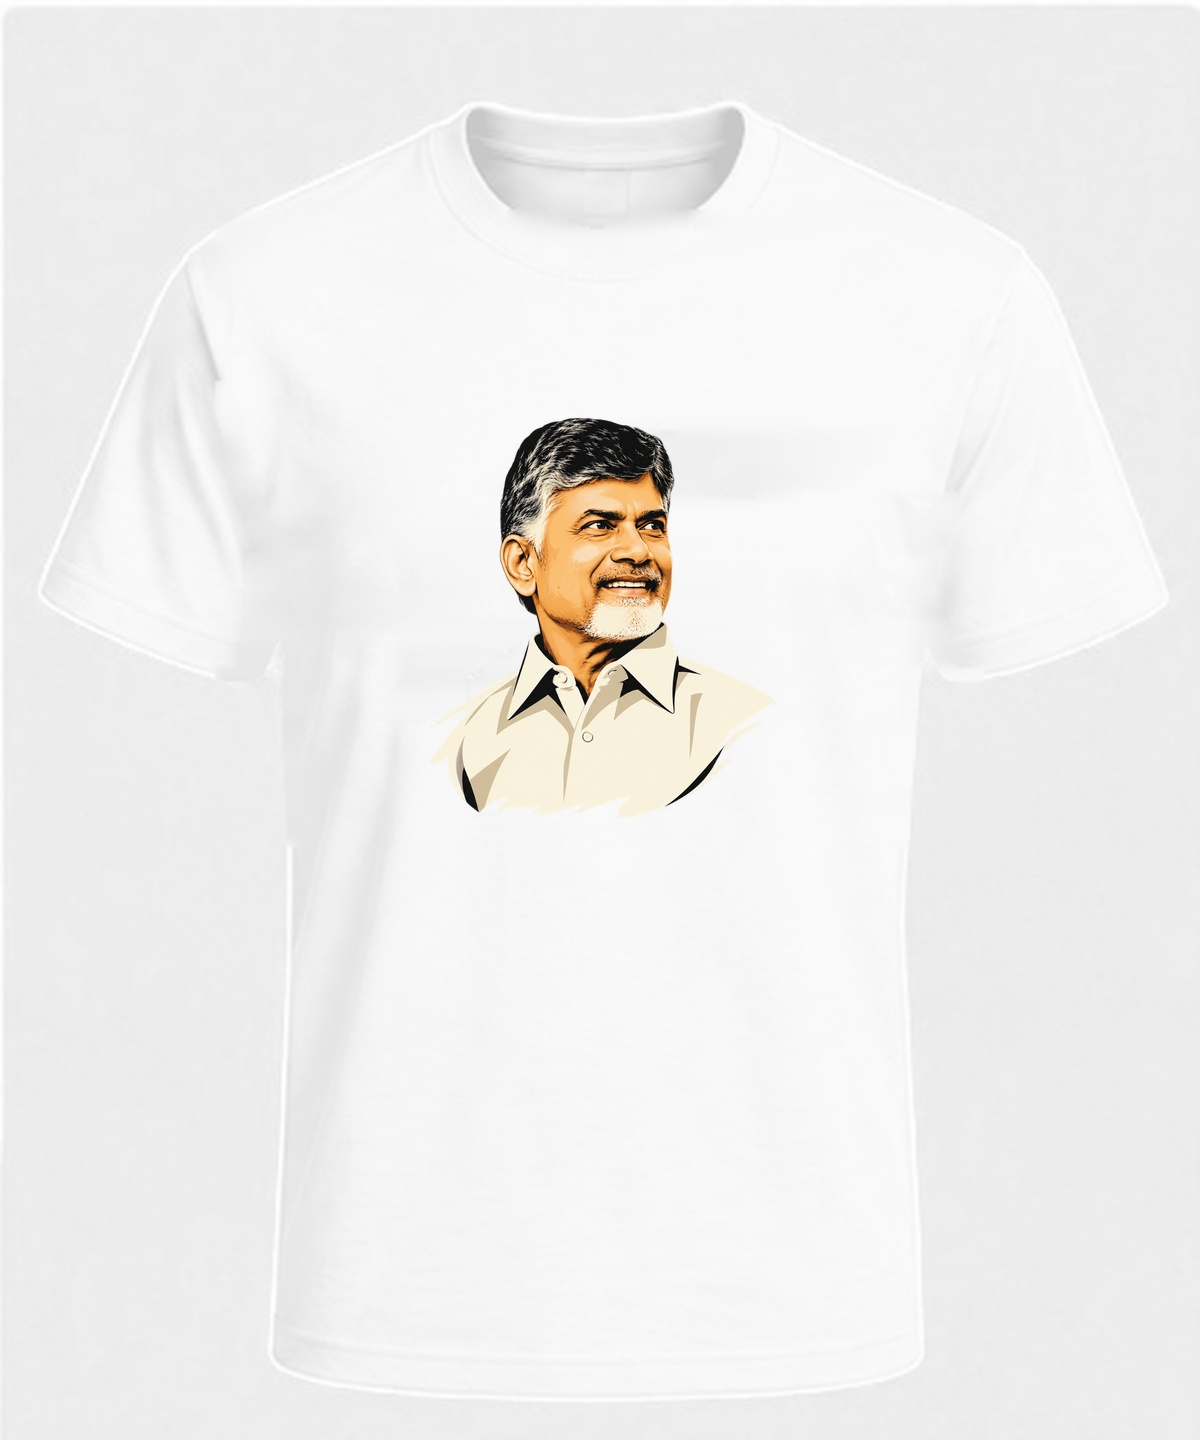
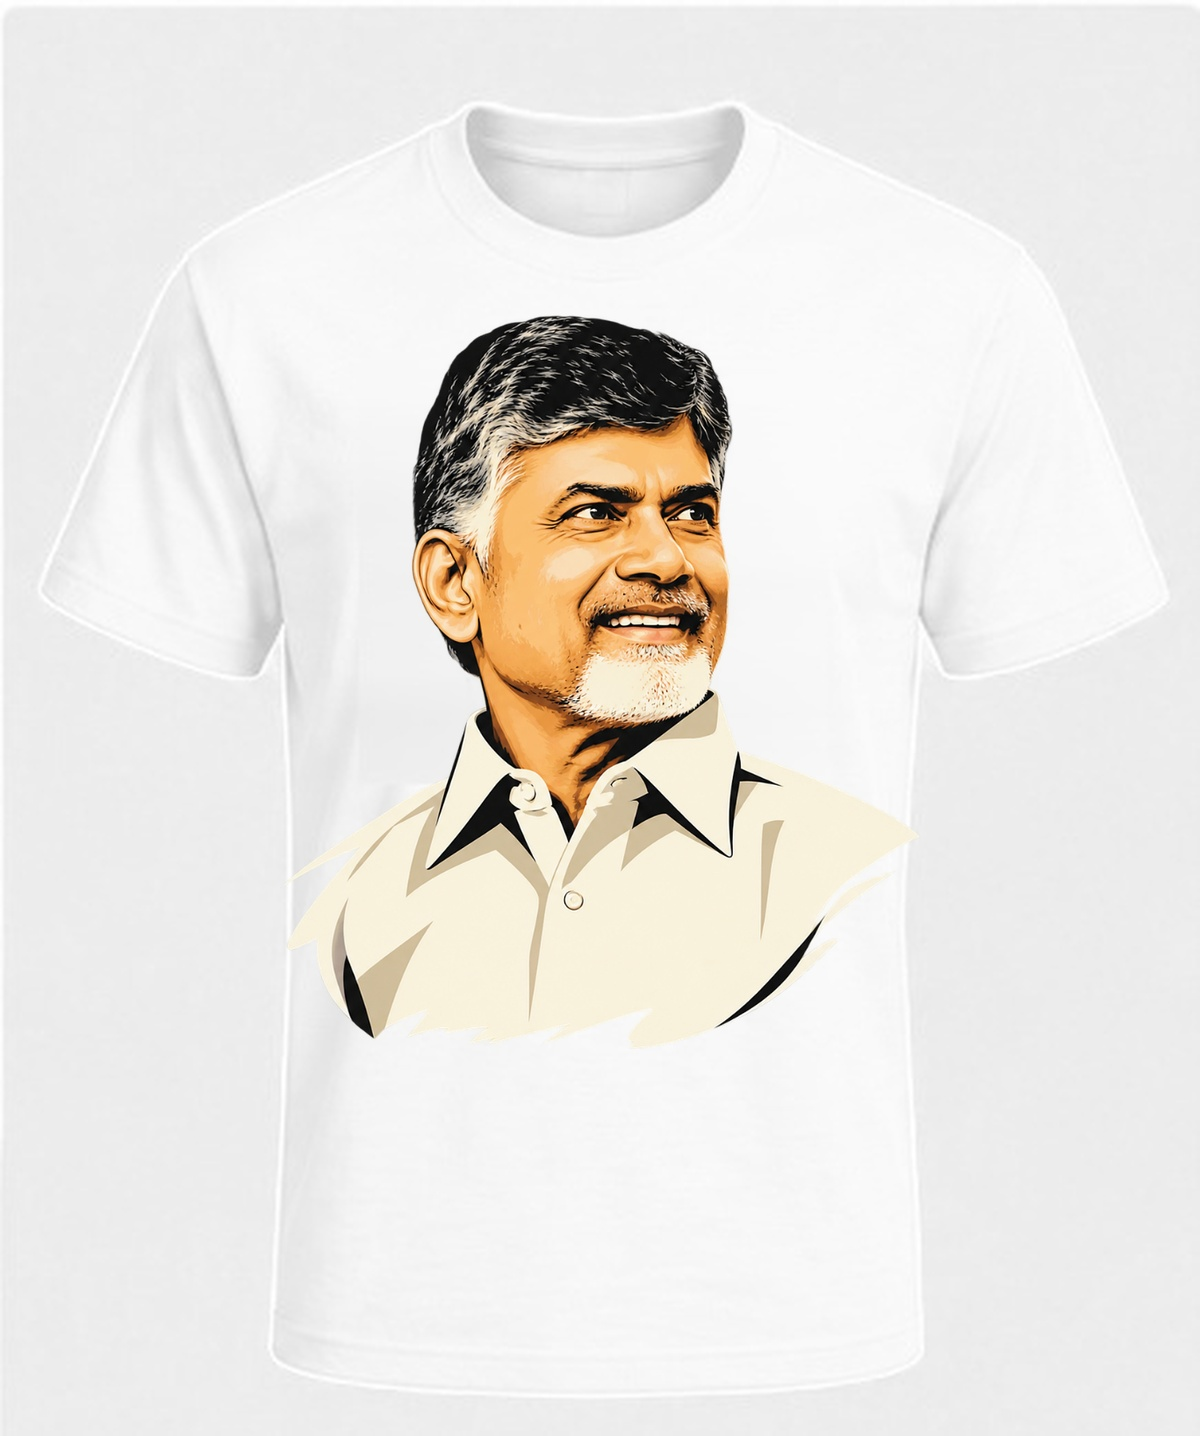
feat: add Chandra Babu Printed White T-Shirt to product catalog with full-chest HD graphic print and rich gallery

diff --git a/frontend/src/pages/ProductDetails.tsx b/frontend/src/pages/ProductDetails.tsx
@@ -35,6 +35,29 @@ const TDP_COLOR_IMAGES: Record<string, string> = {
   Black: "/images/tdp_black_hd.jpg",
 }
 
+const CBN_GALLERY = [
+  {
+    full: "/images/cbn_front_hd.jpg",
+    thumb: "/images/cbn_thumb_front.jpg",
+    label: "Front View",
+  },
+  {
+    full: "/images/cbn_back_hd.jpg",
+    thumb: "/images/cbn_thumb_back.jpg",
+    label: "Back View",
+  },
+  {
+    full: "/images/cbn_print_hd.jpg",
+    thumb: "/images/cbn_thumb_print.jpg",
+    label: "Print Detail",
+  },
+  {
+    full: "/images/cbn_fabric_hd.jpg",
+    thumb: "/images/cbn_thumb_fabric.jpg",
+    label: "Fabric Texture",
+  },
+]
+
 const COLORS = [
   { name: "Yellow", hex: "#f59e0b" },
   { name: "White", hex: "#ffffff" },
@@ -72,6 +95,9 @@ export default function ProductDetails() {
 
   const product = productQuery.data
   const isTdp = product.name.toLowerCase().includes("tdp")
+  const isCbn =
+    product.name.toLowerCase().includes("chandra babu") ||
+    product.name.toLowerCase().includes("cbn")
   const isDevara = product.name.toLowerCase().includes("devara")
   const isApparel =
     product.category.toLowerCase().includes("fashion") ||
@@ -79,18 +105,28 @@ export default function ProductDetails() {
     product.name.toLowerCase().includes("dress") ||
     product.name.toLowerCase().includes("t-shirt")
 
+  const availableColors = isCbn || isDevara
+    ? [{ name: "White", hex: "#ffffff" }]
+    : COLORS
+
+  const currentColor = isCbn || isDevara ? "White" : selectedColor
+
   const galleryViews = isTdp
     ? TDP_GALLERY
+    : isCbn
+    ? CBN_GALLERY
     : [{ full: product.image, thumb: product.image, label: product.name }]
 
   const mainImageSrc = isTdp
-    ? selectedColor !== "Yellow"
-      ? TDP_COLOR_IMAGES[selectedColor] || TDP_GALLERY[activeImageIndex]?.full || product.image
+    ? currentColor !== "Yellow"
+      ? TDP_COLOR_IMAGES[currentColor] || TDP_GALLERY[activeImageIndex]?.full || product.image
       : TDP_GALLERY[activeImageIndex]?.full || product.image
+    : isCbn
+    ? CBN_GALLERY[activeImageIndex]?.full || product.image
     : product.image
 
-  const originalPrice = isDevara ? 999 : null
-  const discountLabel = isDevara ? "40% off" : null
+  const originalPrice = isDevara || isCbn ? 999 : null
+  const discountLabel = isDevara || isCbn ? "40% off" : null
   const stockCount = typeof product.stock === "number" ? product.stock : 50
   const isOutOfStock = stockCount <= 0
 
@@ -220,13 +256,13 @@ export default function ProductDetails() {
             <div className="product-swatches-section">
               <span className="section-label">Color</span>
               <div className="color-swatches-row" role="radiogroup" aria-label="Select Color">
-                {COLORS.map((col) => (
+                {availableColors.map((col) => (
                   <button
                     key={col.name}
                     type="button"
                     role="radio"
-                    aria-checked={selectedColor === col.name}
-                    className={`color-swatch-btn ${selectedColor === col.name ? "active" : ""}`}
+                    aria-checked={currentColor === col.name}
+                    className={`color-swatch-btn ${currentColor === col.name ? "active" : ""}`}
                     onClick={() => {
                       setSelectedColor(col.name)
                       setActiveImageIndex(0)

diff --git a/backend/scripts/add_cbn_white_tshirt.py b/backend/scripts/add_cbn_white_tshirt.py
@@ -1,0 +1,36 @@
+import os
+import sys
+
+# Ensure backend is on sys.path
+sys.path.insert(0, os.path.abspath("backend"))
+
+from app.schemas.schemas import ProductData
+from app.services.product_service import create_product
+from app.db.session import SessionLocal
+from app.models.models import Product
+
+def add_cbn_product():
+    db = SessionLocal()
+    existing = db.query(Product).filter(
+        (Product.name == "Chandra Babu Printed White T-Shirt") |
+        (Product.name == "Chandra Babu Naidu Printed White T-Shirt")
+    ).first()
+    if existing:
+        print(f"Product already exists with ID: {existing.id} ({existing.name})")
+        return existing.to_dict()
+
+    new_prod_data = ProductData(
+        name="Chandra Babu Printed White T-Shirt",
+        price=599.0,
+        category="Fashion",
+        image="/images/cbn_front_hd.jpg",
+        description="Premium white graphic T-shirt featuring a high-definition bold full-chest front print of visionary leader N. Chandrababu Naidu. Crafted from 100% bio-wash combed cotton for ultimate comfort and durability. Regular fit, fade-resistant digital screen print. Original Price: ₹999 (40% off). Colors: White. Sizes: S, M, L, XL, XXL.",
+        stock=50
+    )
+    
+    created = create_product(new_prod_data)
+    print(f"Successfully created Chandra Babu product with ID: {created['id']}")
+    return created
+
+if __name__ == "__main__":
+    add_cbn_product()

diff --git a/backend/app/db/database.py b/backend/app/db/database.py
@@ -225,6 +225,14 @@ DEFAULT_CATALOG = [
         "description": "Show your support with this premium TDP logo t-shirt. Made from soft, breathable cotton for all-day comfort. Perfect for rallies, events or casual wear. 100% Cotton (Bio Wash), High Quality Fade Resistant Digital Print, Regular Fit. Colors: Yellow, White, Black. Sizes: S, M, L, XL, XXL.",
         "stock": 50,
     },
+    {
+        "name": "Chandra Babu Printed White T-Shirt",
+        "price": 599.0,
+        "category": "Fashion",
+        "image": "/images/cbn_front_hd.jpg",
+        "description": "Premium white graphic T-shirt featuring a high-definition bold full-chest front print of visionary leader N. Chandrababu Naidu. Crafted from 100% bio-wash combed cotton for ultimate comfort and durability. Regular fit, fade-resistant digital screen print. Original Price: ₹999 (40% off). Colors: White. Sizes: S, M, L, XL, XXL.",
+        "stock": 50,
+    },
 ]
 
 
